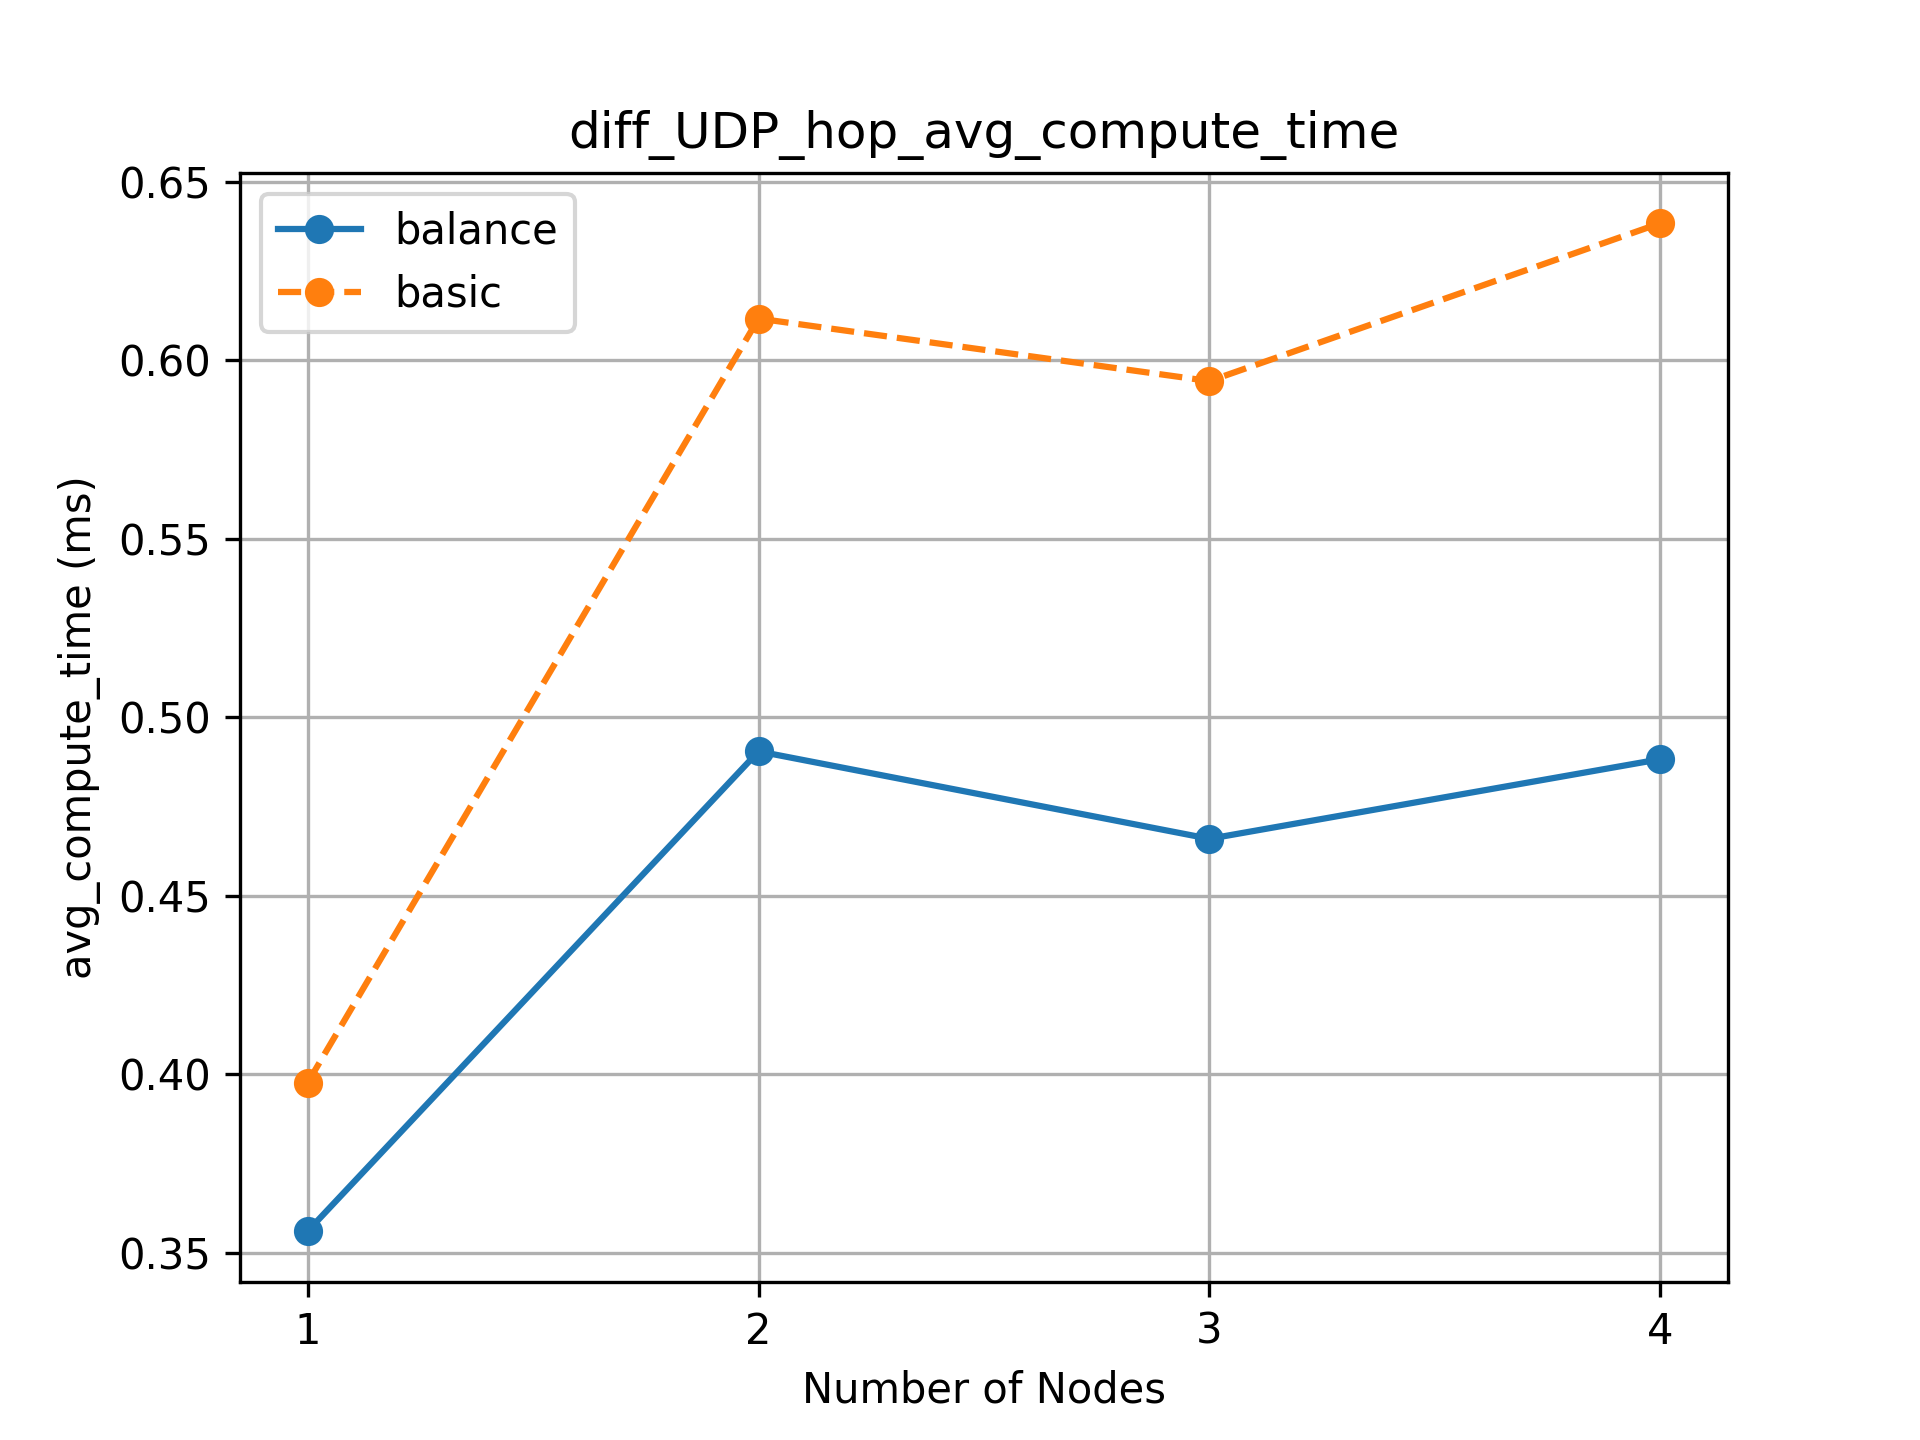
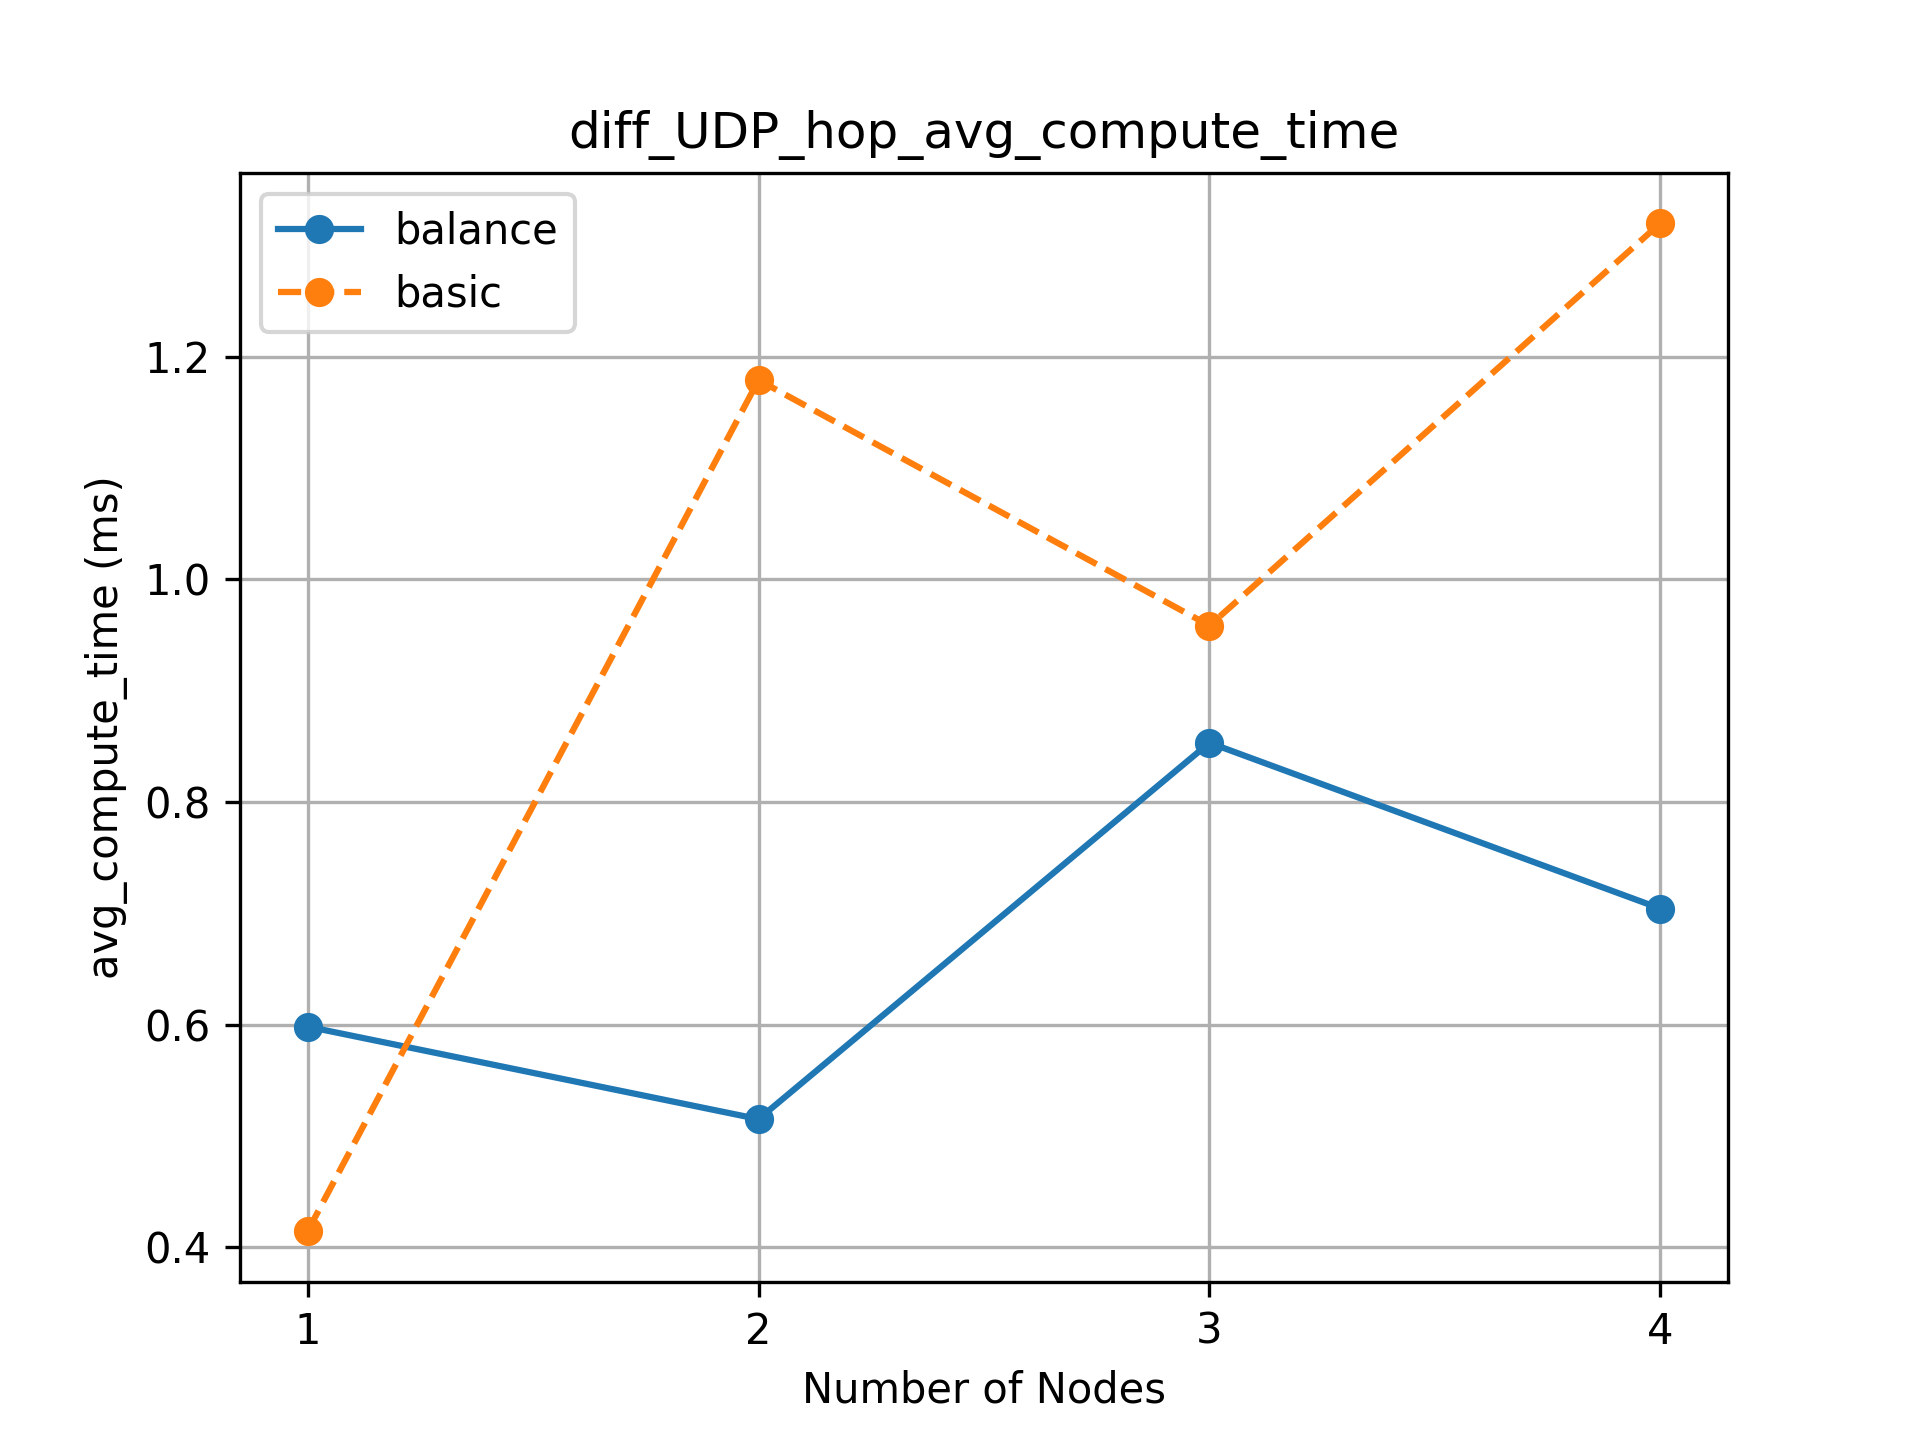
1.0

diff --git a/addon/client.h b/addon/client.h
@@ -11,6 +11,7 @@ class ClientOBJ : public NodeOBJ
         : NodeOBJ(inode)
     {
         startClient();
+        startTrace();
     }
 
     void connect()
@@ -45,6 +46,8 @@ class ClientOBJ : public NodeOBJ
     map<Ipv4Address, Ptr<Socket>> tcpClientSockets;
     map<Ipv4Address, InetSocketAddress> udpClientAddresses;
 
+    map<Ipv4Address, int> hop_container;
+
     void startClient()
     {
         if (g_protocol == "TCP")
@@ -73,6 +76,12 @@ class ClientOBJ : public NodeOBJ
         }
     }
 
+    void startTrace()
+    {
+        Ptr<Ipv4> clientIpv4 = this->node->GetObject<Ipv4>();
+        clientIpv4->TraceConnectWithoutContext("Rx", MakeCallback(&ClientOBJ::clientTrace, this));
+    }
+
     void handleAccept(Ptr<Socket> socket, const Address& from) // TCP
     {
         Ipv4Address clientIp = InetSocketAddress::ConvertFrom(from).GetIpv4();
@@ -81,6 +90,27 @@ class ClientOBJ : public NodeOBJ
 
         // Set callback for receiving data on this client socket
         socket->SetRecvCallback(MakeCallback(&ClientOBJ::tcpReceiveCallback, this));
+    }
+
+    void clientTrace(Ptr<const Packet> packet, Ptr<Ipv4> ipv4, uint32_t interfaceId)
+    {
+        Ipv4Header ipv4Header;
+        Ptr<Packet> copy = packet->Copy();
+        if (!copy->PeekHeader(ipv4Header))
+        {
+            return;
+        }
+        // receive IP
+        Ipv4Address sender_ip = ipv4Header.GetSource();
+
+        // receive Hop
+        uint8_t TTL = ipv4Header.GetTtl();
+        int hop_count = 64 - TTL;
+
+        // update hop
+        hop_container[sender_ip] = hop_count;
+
+        bytesReceived += packet->GetSize();
     }
 
     void clientSocketSend(json data, Ipv4Address dest_ip, const string& comment)
@@ -121,6 +151,7 @@ class ClientOBJ : public NodeOBJ
     }
 
     map<Ipv4Address, string> tcpBuffer;
+
     void tcpReceiveCallback(Ptr<Socket> socket)
     {
         Address senderAddress;
@@ -181,11 +212,14 @@ class ClientOBJ : public NodeOBJ
             slog("Error : Tag not found.");
             return;
         }
+
         string tag = data["Tag"];
 
         if (tag == "leaders")
         {
-            findGroup(data["Body"]);
+            filterLeaderTag(data["Body"], sender_ip);
+            // ask leader distance
+            // findGroup(data["Body"]);
         }
         else if (tag == "register")
         {
@@ -197,21 +231,123 @@ class ClientOBJ : public NodeOBJ
         }
     }
 
-    void findGroup(json leaders)
+    void filterLeaderTag(json data, Ipv4Address sender_ip)
     {
-        string min_hop_ip;
+        if (!data.contains("Tag"))
+        {
+            slog("Error : Tag not found.");
+            return;
+        }
+
+        string tag = data["Tag"];
+        // server >> client (leaders)
+        if (tag == "check distance")
+        {
+            checkDistance(data["Body"]);
+        }
+        // client >> leader ()
+        else if (tag == "distance")
+        {
+            returnDistance(sender_ip);
+        }
+        else if (tag == "return distance")
+        {
+            sendbackMinDistance(data["Body"], sender_ip);
+        }
+    }
+
+    vector<Ipv4Address> sendedCheckDistance;
+
+    void checkDistance(json leaders)
+    {
+        json data2 = {{"Tag", "distance"}, {"Body", json::array()}};
+        json data = {{"Tag", "leaders"}, {"Body", data2}};
         for (const auto& leader : leaders)
         {
-            // std::string leader_str = leader.get<std::string>();
-            // Ipv4Address leader_ip = Ipv4Address(leader_str.c_str());
+            string leader_str = leader.get<std::string>();
+            Ipv4Address leader_ip = Ipv4Address(leader_str.c_str());
+            clientSocketSend(data, leader_ip, "distance");
+            sendedCheckDistance.push_back(leader_ip);
         }
-        slog("WTP : Find Group (Client.h)");
-        min_hop_ip = leaders[0];
-        json data = {{"Tag", "leader"}, {"Body", min_hop_ip}};
+    }
+
+    void returnDistance(Ipv4Address sender_ip)
+    {
+        int distance;
+        double throughput = getThroughput();
+
+        if (g_distance == "hop")
+        {
+            string hop = to_string(hop_container[sender_ip]);
+            distance = stoi(hop);
+        }
+        else
+        {
+            distance = static_cast<int>(throughput);
+        }
+        json data2 = {{"Tag", "return distance"}, {"Body", to_string(distance)}};
+        json data = {{"Tag", "leaders"}, {"Body", data2}};
+        clientSocketSend(data, sender_ip, "return distance");
+    }
+
+    uint64_t bytesReceived = 0;     // Total bytes received
+    uint64_t lastBytesReceived = 0; // Bytes received in the last interval
+    double lastUpdateTime = 0.0;    // Last time throughput was updated
+
+    double getThroughput()
+    {
+        double currentTime = Simulator::Now().GetSeconds();
+        double timeElapsed = currentTime - lastUpdateTime;
+
+        if (timeElapsed <= 0)
+            return 0; // Avoid division by zero
+
+        uint64_t bytesDiff = bytesReceived - lastBytesReceived;
+        double throughput = (bytesDiff * 8) / (timeElapsed * 1e6); // Convert to Mbps
+
+        // Update stored values for next calculation
+        lastBytesReceived = bytesReceived;
+        lastUpdateTime = currentTime;
+
+        return throughput;
+    }
+
+    map<Ipv4Address, int> distance_container;
+
+    void sendbackMinDistance(json data, Ipv4Address sender_ip)
+    {
+        if (!sendedCheckDistance.empty())
+        { // Check if vector is not empty
+            auto it = find(sendedCheckDistance.begin(), sendedCheckDistance.end(), sender_ip);
+            if (it != sendedCheckDistance.end())
+            { // Check if IP exists
+                sendedCheckDistance.erase(it);
+                // cout << "Removed IP: " << convIPtoString(sender_ip) << endl;
+
+                string distance = data.get<std::string>();
+                distance_container[sender_ip] = stoi(distance);
+            }
+            else
+            {
+                cout << "IP not found in vector." << endl;
+            }
+        }
+        if (!sendedCheckDistance.empty())
+        {
+            return;
+        }
+
+        // main implement
+        findGroup();
+    }
+
+    void findGroup()
+    {
+        Ipv4Address min_d_ip = getMinIpWithMinDistance();
+        // min_hop_ip = leaders[0];
+        json data = {{"Tag", "leader"}, {"Body", convIPtoString(min_d_ip)}};
         clientSocketSend(data, server_ip, "leader");
-
-        Ipv4Address leader_ip = Ipv4Address(min_hop_ip.c_str());
-
+        Ipv4Address leader_ip = min_d_ip;
         if (g_protocol == "TCP")
         {
             // Create and connect to the leader socket
@@ -226,8 +362,6 @@ class ClientOBJ : public NodeOBJ
             // Set callback for receiving data from the leader
             leaderSocket->SetRecvCallback(MakeCallback(&ClientOBJ::tcpReceiveCallback, this));
 
-            // slog("TCP Connection established with leader: " + min_hop_ip);
-
             // Send registration message to leader
             json register_data = {{"Tag", "register"}, {"Body", name}};
             clientSocketSend(register_data, leader_ip, "register");
@@ -237,6 +371,28 @@ class ClientOBJ : public NodeOBJ
             json register_data = {{"Tag", "register"}, {"Body", name}};
             clientSocketSend(register_data, leader_ip, "register");
         }
+    }
+
+    Ipv4Address getMinIpWithMinDistance()
+    {
+        if (distance_container.empty())
+        {
+            throw runtime_error("Container is empty");
+        }
+
+        Ipv4Address min_ip("255.255.255.255");
+        int min_distance = std::numeric_limits<int>::max();
+
+        for (const auto& [ip, distance] : distance_container)
+        {
+            if (distance < min_distance || (distance == min_distance && ip < min_ip))
+            {
+                min_distance = distance;
+                min_ip = ip;
+            }
+        }
+
+        return min_ip;
     }
 
     void registerMember(string body)

diff --git a/main.cc b/main.cc
@@ -9,6 +9,8 @@
 #include "ns3/node-container.h"
 #include "ns3/point-to-point-module.h"
 #include "ns3/socket.h"
+#include "ns3/flow-monitor-module.h"
+
 
 #include <map>
 #include <nlohmann/json.hpp>
@@ -29,16 +31,8 @@ using json = nlohmann::json;
 #include "addon/server.h"
 #include "uncleane.h"
 
-// ___________________________ //
-// ========== ERROR ========== //
-// client to client check hop  //
-// ‾‾‾‾‾‾‾‾‾‾‾‾‾‾‾‾‾‾‾‾‾‾‾‾‾‾‾ //
-
 // _____________________________ //
 // ========== Missing ========== //
-// through put                   //
-// Traffic distance              //
-// energy                        //
 // disconnect                    //
 // ‾‾‾‾‾‾‾‾‾‾‾‾‾‾‾‾‾‾‾‾‾‾‾‾‾‾‾‾‾ //
 
@@ -100,10 +94,8 @@ fullSimulation(int round = 1)
             {
                 for (auto distance : distance_values)
                 {
-                    if (distance == "traffic")
-                    {
-                        continue;
-                    }
+                    string file_name = send_type + "_" + subnet + "_" + protocol + "_" + distance;
+                    cout << "Simulating : " << file_name << endl;
                     for (auto n_client : n_client_values)
                     {
                         for (int i = 0; i < round; i++)
@@ -128,7 +120,6 @@ fullSimulation(int round = 1)
                         resetResult();
                     }
                     // displayStoredResult();
-                    string file_name = send_type + "_" + subnet + "_" + protocol + "_" + distance;
                     saveResultsToCSV(file_name, results);
                     results.clear();
                 }
@@ -150,7 +141,7 @@ main(int argc, char* argv[])
         // g_send_type = "balance";
         g_send_type = "basic";
 
-        g_subnet = true;
+        g_subnet = "same";
 
         // g_protocol = "TCP";
         g_protocol = "UDP";
@@ -161,7 +152,7 @@ main(int argc, char* argv[])
     }
     else
     {
-        int round = 100;
+        int round = 1;
         fullSimulation(round);
     }
     return 0;

diff --git a/addon/server.h b/addon/server.h
@@ -196,6 +196,8 @@ class ServerOBJ : public NodeOBJ
     void serverSocketSend(json data, Ipv4Address ip, const string& comment)
     {
         Ptr<Packet> packet = CreateJSONPacket(data);
+        uint32_t packetSize = packet->GetSize();
+        slog(to_string(packetSize) + " bytes to " + convIPtoString(ip));
 
         if (g_protocol == "TCP")
         {
@@ -252,12 +254,12 @@ class ServerOBJ : public NodeOBJ
         }
         else // Ack available Group
         {
-            json data = {{"Tag", "leaders"}, {"Body", json::array()}};
+            json leader_data = {{"Tag", "check distance"}, {"Body", json::array()}};
             for (auto it = group.begin(); it != group.end(); ++it)
             {
-                data["Body"].push_back(it.key());
+                leader_data["Body"].push_back(it.key());
             }
-            // addressInfo address(sender_ip, 49152);
+            json data = {{"Tag", "leaders"}, {"Body", leader_data}};
             serverSocketSend(data, sender_ip, "leaders");
         }
     }

diff --git a/addon/global_values.h b/addon/global_values.h
@@ -4,7 +4,7 @@
 int g_value = 99;
 
 // bool debug = true;
-bool debug = true;
+bool debug = false;
 
 // Data
 vector<double> d_computational_time;
@@ -22,13 +22,14 @@ vector<std::tuple<int, double, double, double, double>> results;
 string g_send_type = "basic";
 string g_subnet = "same";
 string g_protocol = "UDP";
-string g_distance = "hop";
+
+// string g_distance = "hop";
+string g_distance = "traffic";
+
 int g_n_client = 4;
 
 int g_matrix_size = 16;
 int g_value_range = 127;
-
-
 
 
 #endif // GLOBAL_VALUES_H
